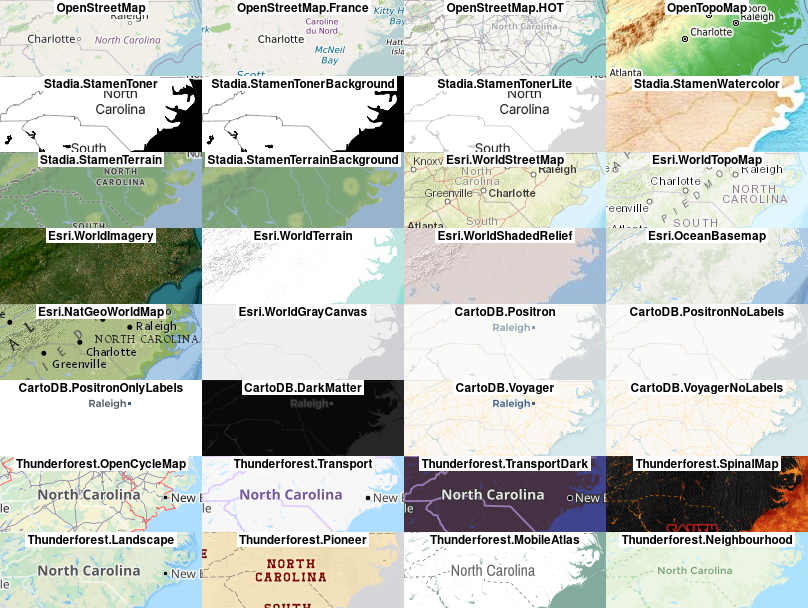
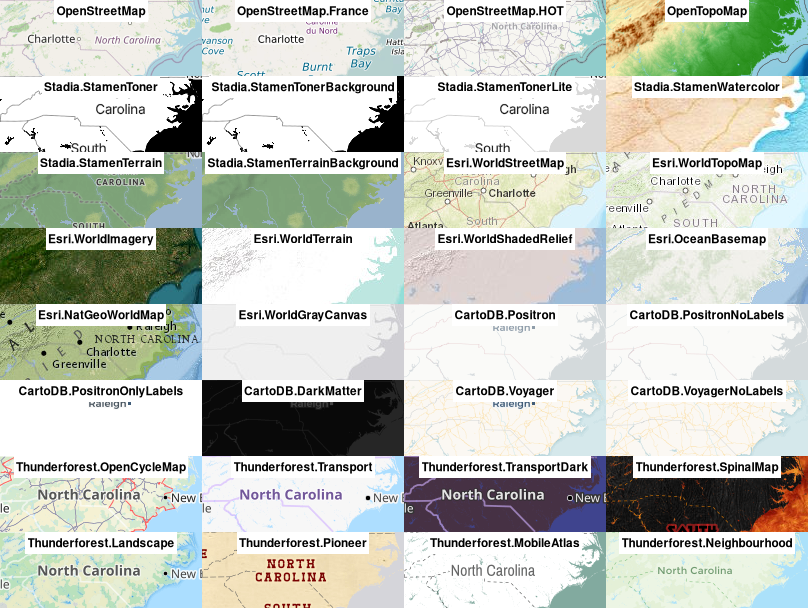
version 0.13.0

diff --git a/README.md b/README.md
@@ -3,11 +3,12 @@
 
 # maptiles <img src="man/figures/logo.png" align="right" width="140"/>
 
-[![R-CMD-check](https://github.com/riatelab/maptiles/actions/workflows/R-CMD-check.yaml/badge.svg)](https://github.com/riatelab/maptiles/actions/workflows/R-CMD-check.yaml)
-[![codecov](https://codecov.io/gh/riatelab/maptiles/branch/dev/graph/badge.svg?token=R7T2PCTERH)](https://app.codecov.io/github/riatelab/maptiles)
-[![CRAN
-status](https://www.r-pkg.org/badges/version/maptiles)](https://CRAN.R-project.org/package=maptiles)
-![](https://cranlogs.r-pkg.org/badges/maptiles)
+[![CRAN](https://www.r-pkg.org/badges/version-ago/maptiles)](https://cran.r-project.org/package=maptiles)
+[![maptiles status
+badge](https://riatelab.r-universe.dev/maptiles/badges/version)](https://riatelab.r-universe.dev/maptiles)
+![code coverage:
+93%](https://img.shields.io/badge/code_coverage-93%25-green)
+[![downloads](https://cranlogs.r-pkg.org/badges/maptiles?color=brightgreen)](https://cran.r-project.org/package=maptiles)
 
 To create maps from tiles, `maptiles` downloads, composes and displays
 tiles from a large number of providers (e.g. OpenStreetMap, Stadia,
@@ -62,21 +63,21 @@ tiles server and how to cache the original tiles for future use:
 ``` r
 # define the tile server parameters
 osmpos <- create_provider(
-  name = "CARTO.POSITRON",
-  url = "https://{s}.basemaps.cartocdn.com/light_all/{z}/{x}/{y}{r}.png",
-  sub = c("a", "b", "c", "d"),
-  citation = "© OpenStreetMap contributors © CARTO "
+  name = "OpenStreetMapFrance",
+  url = "https://{s}.tile.openstreetmap.fr/osmfr/{z}/{x}/{y}.png",
+  sub = c("a", "b", "c"),
+  citation = "\ua9 OpenStreetMap France | \ua9 OpenStreetMap contributors"
 )
 # dowload tiles and compose raster (SpatRaster)
 nc_osmpos <- get_tiles(
   x = nc, provider = osmpos, crop = TRUE,
-  cachedir = tempdir(), verbose = TRUE, retina = TRUE
+  cachedir = tempdir(), verbose = TRUE
 )
 #> Zoom: 7
-#> Source(s): © OpenStreetMap contributors © CARTO 
-#> Cache directory: /tmp/RtmpInTQ8E/CARTO.POSITRON
+#> Source(s): © OpenStreetMap France | © OpenStreetMap contributors
+#> Cache directory: /tmp/RtmpDPCxIv/OpenStreetMapFrance
 #> 8 tiles
-#> The resulting raster uses high resolution tiles.
+#> High resolution tiles are unavailable on this server.
 # display map
 plot_tiles(nc_osmpos)
 # display credits
@@ -115,7 +116,7 @@ different providers and to have a minimal number of robust and modern
 dependencies. However, depending on the use case, one of following
 packages may better suit your needs:
 
-- [`ceramic`](https://github.com/hypertidy/ceramic)  
+- [`ceramic`](https://github.com/hypertidy/ceramic)
 - [`ggmap`](https://github.com/dkahle/ggmap) (`ggplot2` focused)
 - [`ggspatial`](https://github.com/paleolimbot/ggspatial) (`ggplot2`
   focused, based on `rosm`)
@@ -126,6 +127,17 @@ packages may better suit your needs:
 - [`RgoogleMaps`](https://github.com/markusloecher/rgooglemaps) (google)
 - [`rosm`](https://github.com/paleolimbot/rosm)
 - …
+
+## Community Guidelines
+
+One can contribute to the package through pull requests and report
+issues or ask questions
+[here](https://github.com/riatelab/maptiles/issues). See the
+[CONTRIBUTING.md](https://github.com/riatelab/maptiles/blob/main/CONTRIBUTING.md)
+file for detailed instructions on how to contribute. This project uses
+[conventional
+commits](https://www.conventionalcommits.org/en/v1.0.0-beta.3/) and
+[semantic versioning](https://semver.org/).
 
 ## Note
 

diff --git a/NEWS.md b/NEWS.md
@@ -1,3 +1,12 @@
+# maptiles 0.13.0
+
+## fix 
+- update CARTO provider URLs to use an API key
+
+## feat
+- API key management for CARTO with env variable
+
+
 # maptiles 0.12.0
 
 ## fix 
